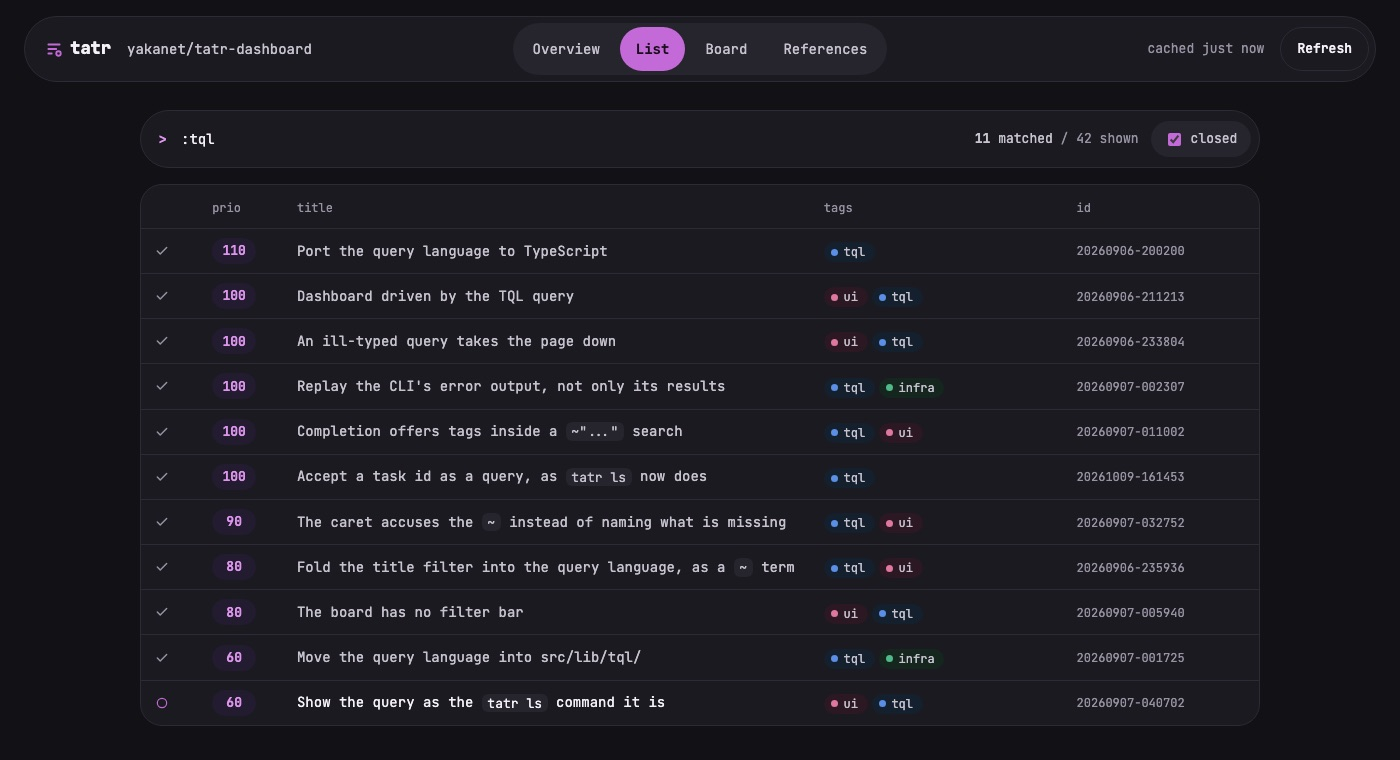
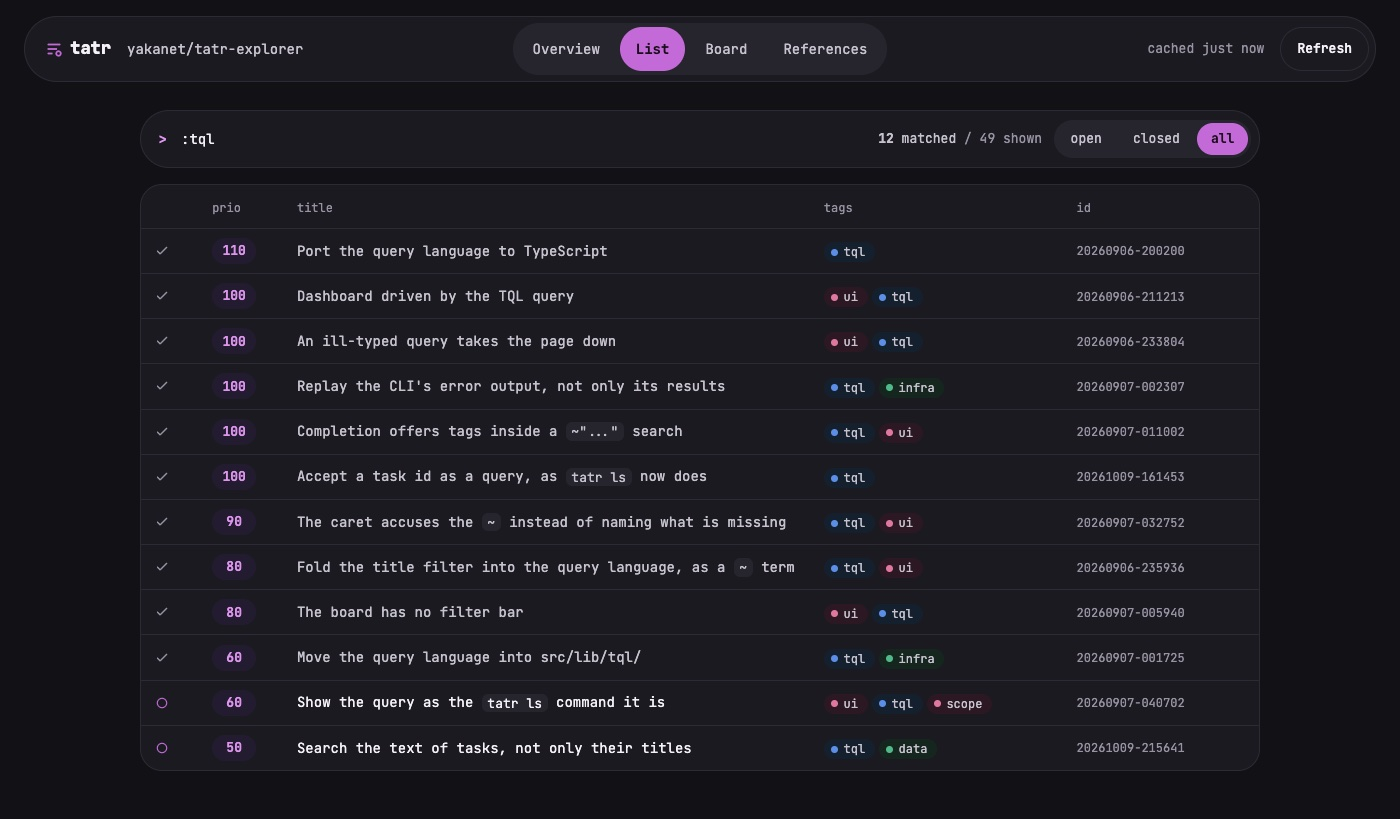
chore: the project is tatr explorer now
The repository moved from yakanet/tatr-dashboard to
yakanet/tatr-explorer, and the site with it, to
github.broutin.dev/tatr-explorer. The name changes where the product
names itself — the homepage, the favicon, the package, the README and
its links — and the homepage now says "Explore any tasks/ folder."

Where the old name was only an example it is now a neutral one: the
tests use my-project and owner/repo, and the comments on the served
URL name the repository rather than spell it out. The overview's tab
title says "overview", like its siblings, instead of the product. The
mark is hidden from screen readers, as it always sits beside the name.

The three screenshots are retaken on the renamed repository, the
list's now showing the status selector it gained, and recompressed
without loss. Closed tasks keep the old name: they record what was
true then.

diff --git a/src/lib/sources/local/folder.spec.ts b/src/lib/sources/local/folder.spec.ts
@@ -84,8 +84,8 @@ describe('isWorthKeeping', () => {
 
 describe('fromFileList', () => {
 	it('takes the folder name from the paths, there being no handle to ask', () => {
-		const folder = fromFileList([entry('tatr-site/tasks/20260101-000001/TASK.md')]);
-		expect(folder?.name).toBe('tatr-site');
+		const folder = fromFileList([entry('my-project/tasks/20260101-000001/TASK.md')]);
+		expect(folder?.name).toBe('my-project');
 		expect([...(folder?.files.keys() ?? [])]).toEqual(['tasks/20260101-000001/TASK.md']);
 	});
 
@@ -115,7 +115,7 @@ describe('fromFileList', () => {
 describe('fromDirectoryHandle', () => {
 	it('walks down to the task files', async () => {
 		const folder = await fromDirectoryHandle(
-			directory('tatr-site', {
+			directory('my-project', {
 				'tasks/20260101-000001/TASK.md': '# a\n',
 				'tasks/20260101-000001/shot.png': 'png',
 				'tasks/tags': 'ui , screens\n',
@@ -123,7 +123,7 @@ describe('fromDirectoryHandle', () => {
 				'src/app.css': 'body{}'
 			})
 		);
-		expect(folder.name).toBe('tatr-site');
+		expect(folder.name).toBe('my-project');
 		expect([...folder.files.keys()].toSorted()).toEqual([
 			'.git/HEAD',
 			'tasks/20260101-000001/TASK.md',
@@ -362,7 +362,7 @@ function entryTree(name: string, tree: Record<string, string>, page = 2): FileSy
 describe('fromDirectoryEntry', () => {
 	it('reads a dropped repository', async () => {
 		const folder = await fromDirectoryEntry(
-			entryTree('tatr-site', {
+			entryTree('my-project', {
 				'tasks/20260101-000001/TASK.md': '# a\n',
 				'tasks/20260101-000002/TASK.md': '# b\n',
 				'tasks/tags': 'ui , screens\n',
@@ -370,7 +370,7 @@ describe('fromDirectoryEntry', () => {
 				'src/app.css': 'body{}'
 			})
 		);
-		expect(folder.name).toBe('tatr-site');
+		expect(folder.name).toBe('my-project');
 		expect([...folder.files.keys()].toSorted()).toEqual([
 			'.git/HEAD',
 			'tasks/20260101-000001/TASK.md',

diff --git a/src/lib/render/markdown.spec.ts b/src/lib/render/markdown.spec.ts
@@ -124,14 +124,13 @@ describe('task ids in a body', () => {
 	const KNOWN = new Set(['20260907-011003', '20260826-200847', '20260907-011003-b']);
 	const linking = {
 		...options,
-		taskUrl: (id: string) =>
-			id !== options.taskId && KNOWN.has(id) ? `/tatr-dashboard/t/${id}` : null
+		taskUrl: (id: string) => (id !== options.taskId && KNOWN.has(id) ? `/base/t/${id}` : null)
 	};
 	const link = (source: string) => renderMarkdown(source, linking);
 
 	it('links an id the repository has, leaving the sentence around it', () => {
 		expect(link('depends on 20260907-011003 first')).toBe(
-			'<p>depends on <a href="/tatr-dashboard/t/20260907-011003">20260907-011003</a> first</p>\n'
+			'<p>depends on <a href="/base/t/20260907-011003">20260907-011003</a> first</p>\n'
 		);
 	});
 

diff --git a/src/routes/+page.svelte b/src/routes/+page.svelte
@@ -82,7 +82,7 @@
 </script>
 
 <svelte:head>
-	<title>tatr dashboard</title>
+	<title>tatr explorer</title>
 </svelte:head>
 
 <!-- The page a reader arrives on was the only one without a keyboard. There is
@@ -100,9 +100,9 @@
 {/if}
 
 <main>
-	<p class="brand"><Mark size={26} /> <span>tatr dashboard</span></p>
+	<p class="brand"><Mark size={26} /> <span>tatr explorer</span></p>
 
-	<h1>Read any <code class="highlight">tasks/</code> folder as a dashboard.</h1>
+	<h1>Explore any <code class="highlight">tasks/</code> folder.</h1>
 	<p class="lead">
 		Point it at any repository that follows the
 		<a href="https://github.com/tsoding/tatr">tatr</a> layout, or at a folder on this machine. Nothing

diff --git a/src/lib/repo/ref.spec.ts b/src/lib/repo/ref.spec.ts
@@ -138,11 +138,11 @@ describe('a folder on this machine', () => {
 	});
 
 	it('keeps the folder name out of the URL, which nobody else could follow', () => {
-		expect(formatRepoPath(localRef('tatr-site'))).toBe('local');
+		expect(formatRepoPath(localRef('my-project'))).toBe('local');
 	});
 
 	it('reads on screen as the folder name, having no owner to qualify it', () => {
-		expect(describeRef(localRef('tatr-site'))).toBe('tatr-site');
+		expect(describeRef(localRef('my-project'))).toBe('my-project');
 		expect(describeRef(localRef())).toBe('a folder on this machine');
 		expect(describeRef(parseRepoPath('tsoding/tatr')!)).toBe('tsoding/tatr');
 	});

diff --git a/src/lib/components/Mark.svelte b/src/lib/components/Mark.svelte
@@ -1,6 +1,8 @@
 <script lang="ts">
 	// The logo, inline rather than an <img>, so it takes the accent from the
-	// theme it is drawn in and needs no request of its own.
+	// theme it is drawn in and needs no request of its own. It always sits beside
+	// the name in text, so it is hidden from screen readers rather than labelled:
+	// a label would have them read the name twice.
 	let { size = 22 }: { size?: number } = $props();
 </script>
 
@@ -8,8 +10,7 @@
 	viewBox="0 0 32 32"
 	width={size}
 	height={size}
-	role="img"
-	aria-label="tatr dashboard"
+	aria-hidden="true"
 	fill="none"
 	stroke="currentColor"
 	stroke-width="3.2"

diff --git a/vite.config.ts b/vite.config.ts
@@ -4,8 +4,8 @@ import adapter from '@sveltejs/adapter-static';
 import { sveltekit } from '@sveltejs/kit/vite';
 
 /**
- * The site is served from https://github.broutin.dev/tatr-dashboard rather than
- * from the root, so the deploy workflow passes the repository name as
+ * The site is served from https://github.broutin.dev/<repository name> rather
+ * than from the root, so the deploy workflow passes the repository name as
  * `BASE_PATH`.
  *
  * That domain belongs to the account rather than to this project: it is set on

diff --git a/src/lib/sources/open.spec.ts b/src/lib/sources/open.spec.ts
@@ -6,9 +6,9 @@ import { closeFolder, openFolder } from './local/kind.ts';
 
 const refs: RepoRef[] = [
 	parseRepoPath('tsoding/tatr')!,
-	parseRepoPath('yakanet/tatr-dashboard@main')!,
+	parseRepoPath('owner/repo@main')!,
 	parseRepoPath('gitlab.com/group/project')!,
-	localRef('tatr-site')
+	localRef('my-project')
 ];
 
 describe('the registry', () => {

diff --git a/src/routes/[...repo]/+page.svelte b/src/routes/[...repo]/+page.svelte
@@ -66,7 +66,7 @@
 </script>
 
 <svelte:head>
-	<title>{repo.name} — tatr dashboard</title>
+	<title>{repo.name} — overview</title>
 </svelte:head>
 
 <main>

diff --git a/README.md b/README.md
@@ -1,21 +1,21 @@
 <div align="center">
 
-# tatr dashboard
+# tatr explorer
 
 **Any repository's `tasks/` folder, read like an issue tracker.**<br>
 In the browser. No server, no backend, no clone.
 
-[**Open it →**](https://github.broutin.dev/tatr-dashboard) &nbsp;·&nbsp;
-[Watch it read its own backlog](https://github.broutin.dev/tatr-dashboard/yakanet/tatr-dashboard) &nbsp;·&nbsp;
+[**Open it →**](https://github.broutin.dev/tatr-explorer) &nbsp;·&nbsp;
+[Watch it read its own backlog](https://github.broutin.dev/tatr-explorer/yakanet/tatr-explorer) &nbsp;·&nbsp;
 [What is tatr?](https://github.com/tsoding/tatr)
 
-[![Deploy](https://github.com/yakanet/tatr-dashboard/actions/workflows/deploy.yml/badge.svg)](https://github.com/yakanet/tatr-dashboard/actions/workflows/deploy.yml)
+[![Deploy](https://github.com/yakanet/tatr-explorer/actions/workflows/deploy.yml/badge.svg)](https://github.com/yakanet/tatr-explorer/actions/workflows/deploy.yml)
 
 </div>
 
-![The dashboard reading this repository](docs/overview.jpg)
+![tatr explorer reading this repository](docs/overview.jpg)
 
-<div align="center"><sub>Reading <a href="https://github.com/yakanet/tatr-dashboard"><code>yakanet/tatr-dashboard</code></a>, this repository, which tracks its own work with tatr.</sub></div>
+<div align="center"><sub>Reading <a href="https://github.com/yakanet/tatr-explorer"><code>yakanet/tatr-explorer</code></a>, this repository, which tracks its own work with tatr.</sub></div>
 
 ## Your tasks already live in git. Now you can see them.
 
@@ -33,14 +33,14 @@ Paste a repository name. That is the entire setup.
 The repository _is_ the route, so anything you are looking at can be sent to
 someone else and land them exactly there.
 
-| URL                                            | Shows                                                 |
-| ---------------------------------------------- | ----------------------------------------------------- |
-| `/yakanet/tatr-dashboard`                      | the dashboard for `github.com/yakanet/tatr-dashboard` |
-| `/yakanet/tatr-dashboard@main`                 | the same repository, pinned to a branch by name       |
-| `/yakanet/tatr-dashboard/list?q=:ui`           | the task list, filtered                               |
-| `/yakanet/tatr-dashboard/task/20260906-211234` | one task, rendered                                    |
-| `/yakanet/tatr-dashboard/board`                | backlog, in progress, done                            |
-| `/yakanet/tatr-dashboard/graph`                | which tasks cite which, a card per pivot task         |
+| URL                                           | Shows                                              |
+| --------------------------------------------- | -------------------------------------------------- |
+| `/yakanet/tatr-explorer`                      | the overview of `github.com/yakanet/tatr-explorer` |
+| `/yakanet/tatr-explorer@main`                 | the same repository, pinned to a branch by name    |
+| `/yakanet/tatr-explorer/list?q=:ui`           | the task list, filtered                            |
+| `/yakanet/tatr-explorer/task/20260906-211234` | one task, rendered                                 |
+| `/yakanet/tatr-explorer/board`                | backlog, in progress, done                         |
+| `/yakanet/tatr-explorer/graph`                | which tasks cite which, a card per pivot task      |
 
 Nothing to sign in to, nothing to configure, no repository to register first.
 
@@ -220,7 +220,7 @@ pnpm run dev
 ```sh
 pnpm run check                            # svelte-check, kept at zero errors
 pnpm test                                 # the full suite
-BASE_PATH=/tatr-dashboard pnpm run build  # what CI builds
+BASE_PATH=/tatr-explorer pnpm run build   # what CI builds
 ```
 
 Deploying is a push to `main`: the workflow type-checks, runs the tests, builds
@@ -232,7 +232,7 @@ fallback.
 
 This repository keeps its own work in its own `tasks/` folder, in the tatr
 format — which is why every example above is a live URL. Open
-[`/yakanet/tatr-dashboard`](https://github.broutin.dev/tatr-dashboard/yakanet/tatr-dashboard)
+[`/yakanet/tatr-explorer`](https://github.broutin.dev/tatr-explorer/yakanet/tatr-explorer)
 and you are reading the backlog of the thing you are reading it with. Its tags
 are documented in `tasks/tags`, exactly as tatr expects:
 
@@ -246,7 +246,7 @@ infra , build, deploy and tooling
 ```
 
 What comes next is not listed here, where it would go stale. It is
-[whatever is open](https://github.broutin.dev/tatr-dashboard/yakanet/tatr-dashboard/list),
+[whatever is open](https://github.broutin.dev/tatr-explorer/yakanet/tatr-explorer/list),
 highest priority first.
 
 ## Credits

diff --git a/tasks/20261009-215640/TASK.md b/tasks/20261009-215640/TASK.md
@@ -25,8 +25,8 @@ To decide before writing it:
 - **Updates.** A worker serving the old build after a deploy is the classic
   trap. SvelteKit 3 checks for a new version on focus and every hour by default;
   the worker has to step aside when it finds one.
-- **The base path and the fallback.** The site lives under `/tatr-dashboard`,
-  and `404.html` is the shell every repository address is served from. Offline,
+- **The base path and the fallback.** The site lives under the repository's
+  name, and `404.html` is the shell every repository address is served from. Offline,
   the worker has to answer those addresses with that shell, or a deep link opens
   on the browser's own error page.
 
